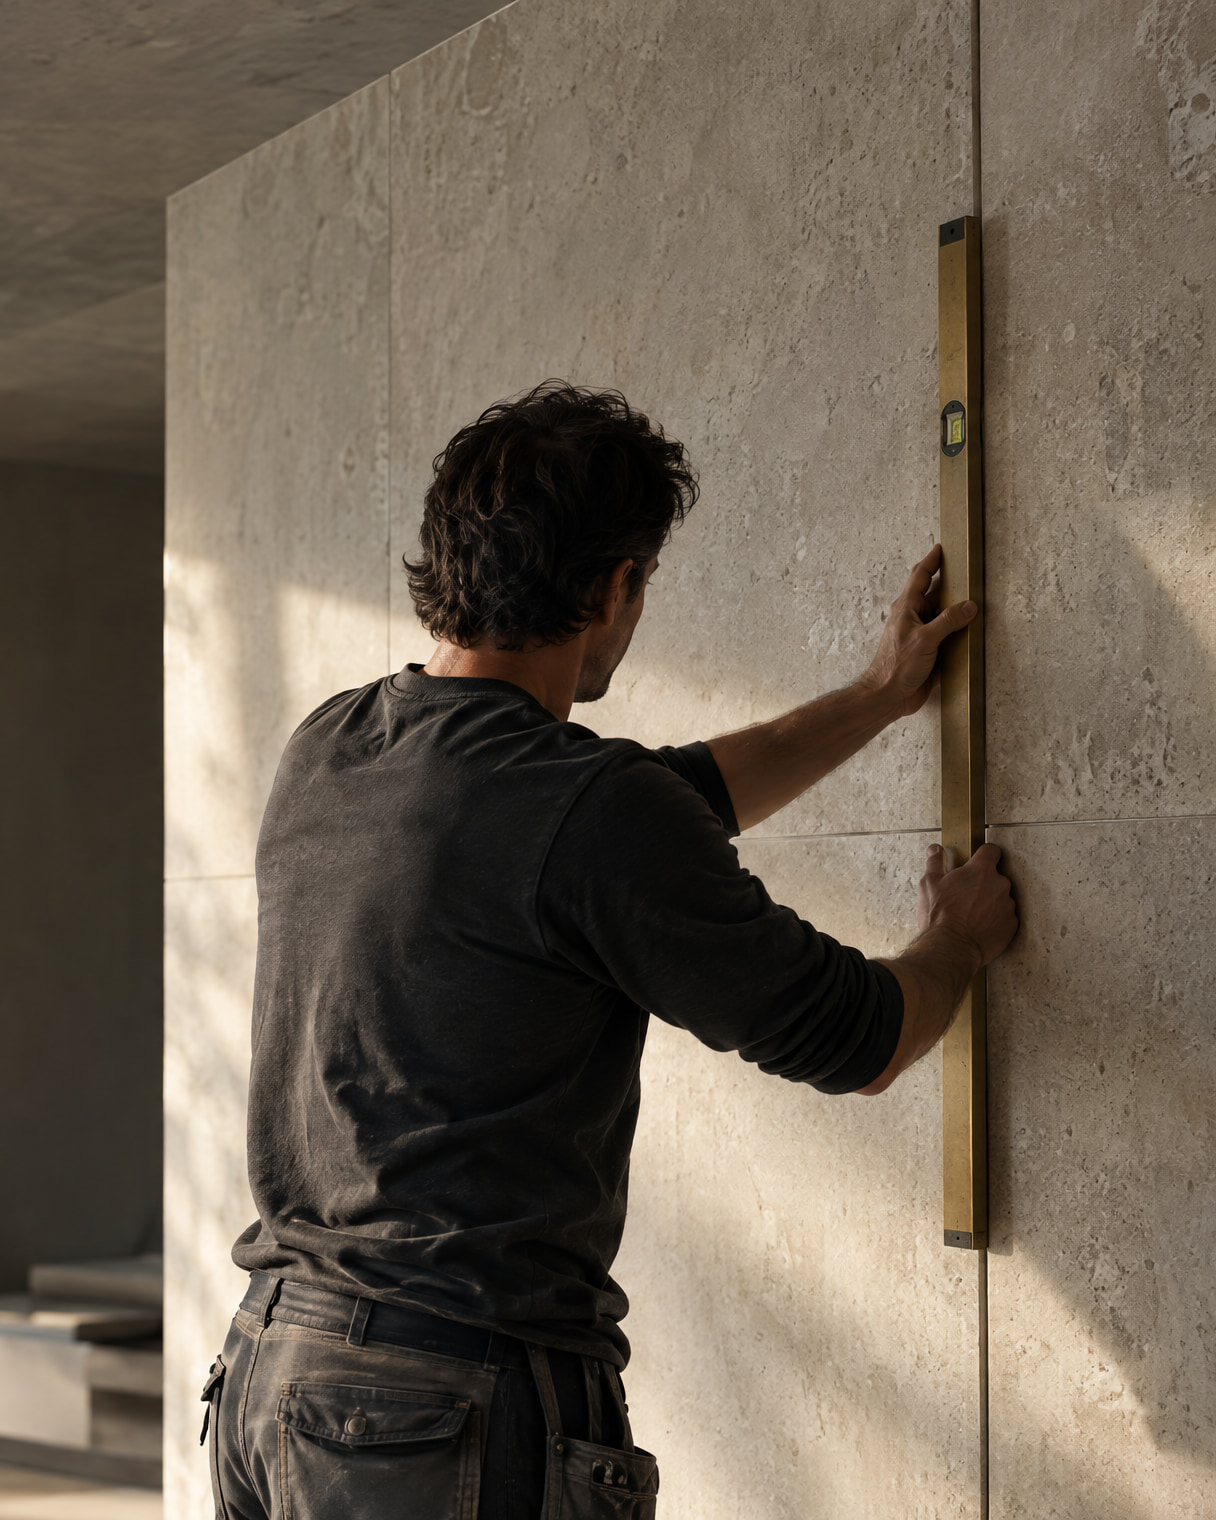
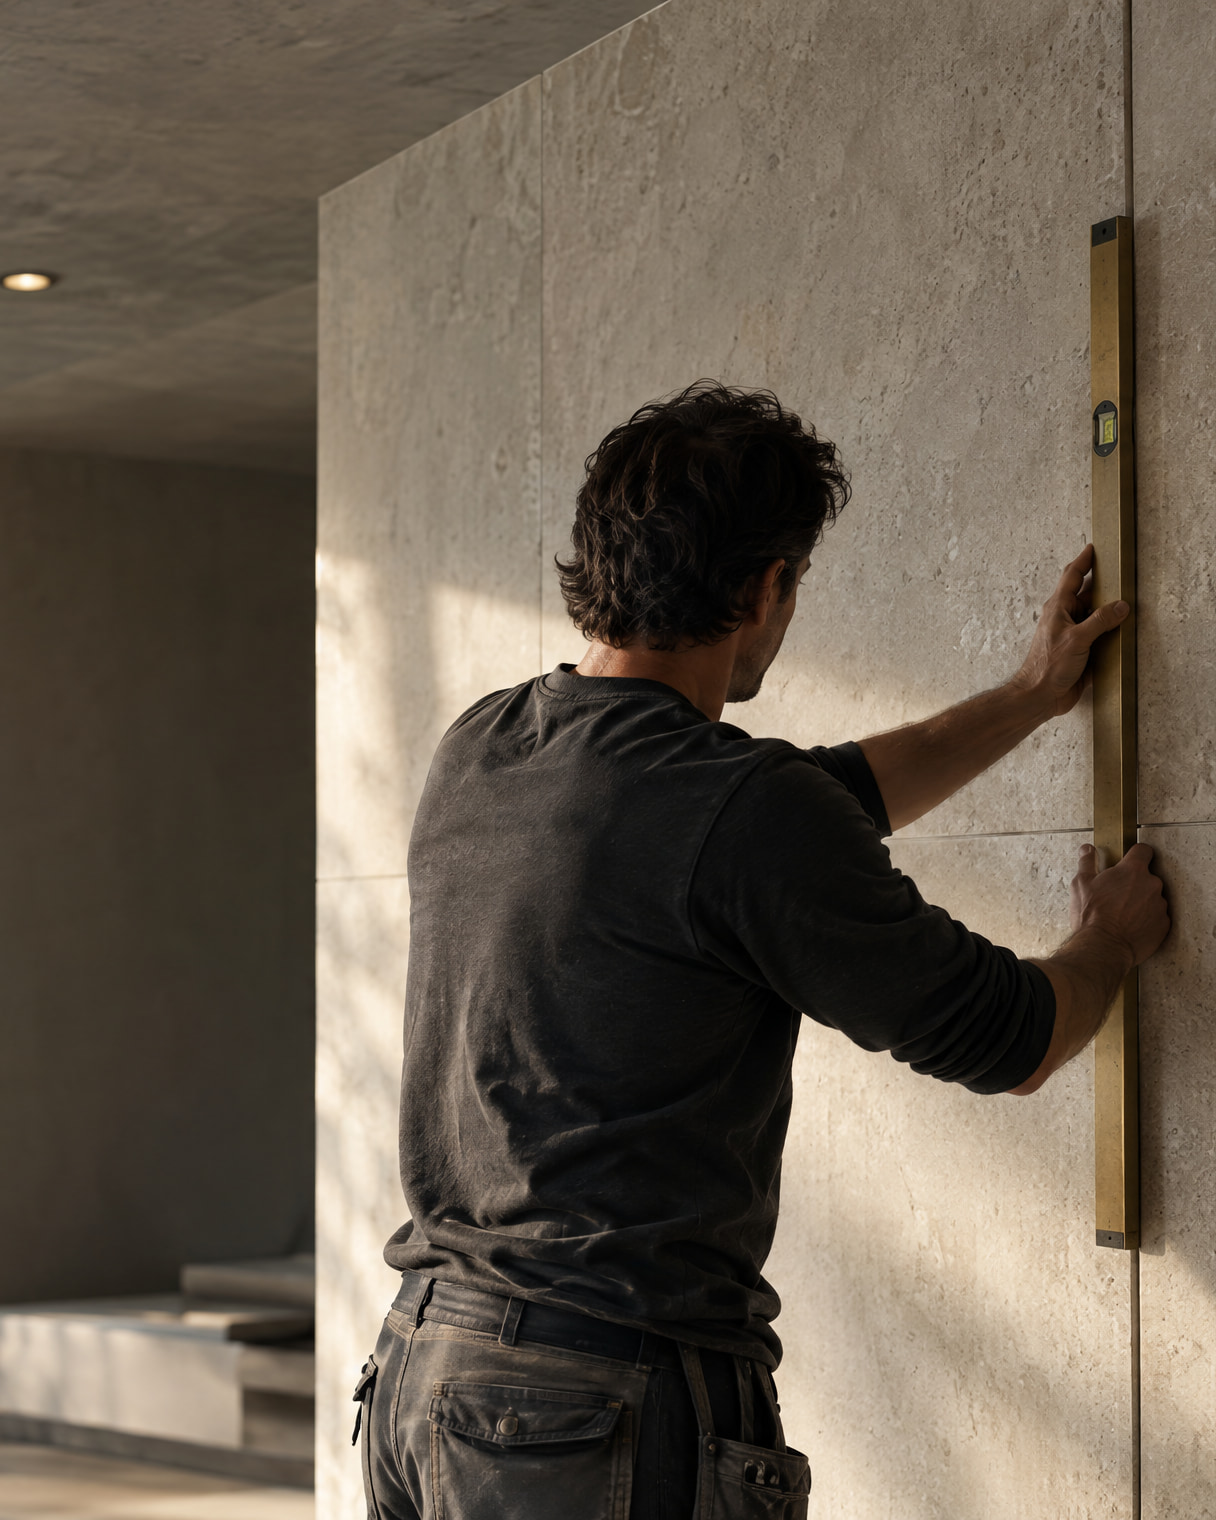
Hero em telemóvel: recorte 4:5 com o foco do teto (duas especialidades visíveis), sem a cota dupla

diff --git a/src/sections/Hero.tsx b/src/sections/Hero.tsx
@@ -19,8 +19,8 @@ import { CotaEtiqueta, CotaHorizontal, CotaVertical, LinhaDeTerra, MarcaCruz } f
 //   ≈ 354 a 383 (fotografia 596 × 337 com a cota de 24 por cima).
 // - 390 × 844: cabeçalho 64; 20; etiqueta 2 × 16 + 12; H1 3 × 36,7; 16; subtítulo
 //   3 × 23,3; 24; botões 48 + 12 + 48; 20; confiança 3 × 34. Fim da confiança ≈ 578;
-//   legenda de IA ≈ 647 a 676 (mesmo com H1 e subtítulo em 4 linhas, ≈ 736); a barra
-//   móvel começa em 783 (844 − 61).
+//   fotografia (sem cota por cima) a partir de ≈ 611; legenda de IA ≈ 623 a 652 (mesmo
+//   com H1 e subtítulo em 4 linhas, ≈ 712); a barra móvel começa em 783 (844 − 61).
 // Em computador, os espaçamentos verticais encolhem com a altura da janela (vh) e, até
 // 680 px de altura, reduzem-se mais um pouco.
 
@@ -100,7 +100,13 @@ export function Hero() {
             </Button>
           </div>
           <div className="mt-5 max-w-md md:mt-6 lg:[@media(max-height:42.5rem)]:mt-4">
-            <ul aria-label={hero.trustLabel}>
+            {/* role="list" explícito: o Safari (VoiceOver) tira o papel de lista a <ul> com
+                list-style: none. */}
+            <ul
+              // oxlint-disable-next-line jsx-a11y/no-redundant-roles -- compatibilidade com o VoiceOver no Safari (list-style: none)
+              role="list"
+              aria-label={hero.trustLabel}
+            >
               {hero.trustItems.map((item) => (
                 <li
                   key={item}
@@ -115,10 +121,13 @@ export function Hero() {
           </div>
         </div>
 
-        {/* Figura: fotografia na proporção do ficheiro (4:5 em telemóvel), cotas e anotações. */}
-        <div data-reveal className="relative mt-8 md:mt-10 lg:col-span-6 lg:col-start-7 lg:mt-0">
+        {/* Figura: fotografia na proporção do ficheiro (4:5 em telemóvel), cotas e anotações.
+            Abaixo de 768 px não há cota por cima da fotografia (direção visual, secção 8):
+            com a linha de terra logo acima, as duas liam-se como uma régua dupla. Em
+            tablet, a cota fica, mais afastada da linha de terra (md:mt-16). */}
+        <div data-reveal className="relative mt-8 md:mt-16 lg:col-span-6 lg:col-start-7 lg:mt-0">
           <div aria-hidden="true" className={PLANTA_SM} />
-          <CotaHorizontal />
+          <CotaHorizontal className="max-md:hidden" />
           <div className="relative">
             <Picture
               id="hero"

diff --git a/src/content/images.ts b/src/content/images.ts
@@ -63,8 +63,9 @@ export const IMAGES: Readonly<Record<ImageId, ImageEntry>> = {
       { number: '02', x: 15, y: 67 }, // painel de carvalho com puxador
       { number: '03', x: 40, y: 18.5 }, // foco embutido no teto
     ],
-    // hero-telemovel.jpg: recorte x = 1212 a 2428 dos 2688 px do original.
-    mobileCrop: { x0: 45.1, x1: 90.3 },
+    // hero-telemovel.jpg: recorte x = 1060 a 2276 dos 2688 px do original (inclui o foco do
+    // teto, a parede de pedra e o nível inteiro).
+    mobileCrop: { x0: 39.4, x1: 84.7 },
   },
   sobre: {
     id: 'sobre',
